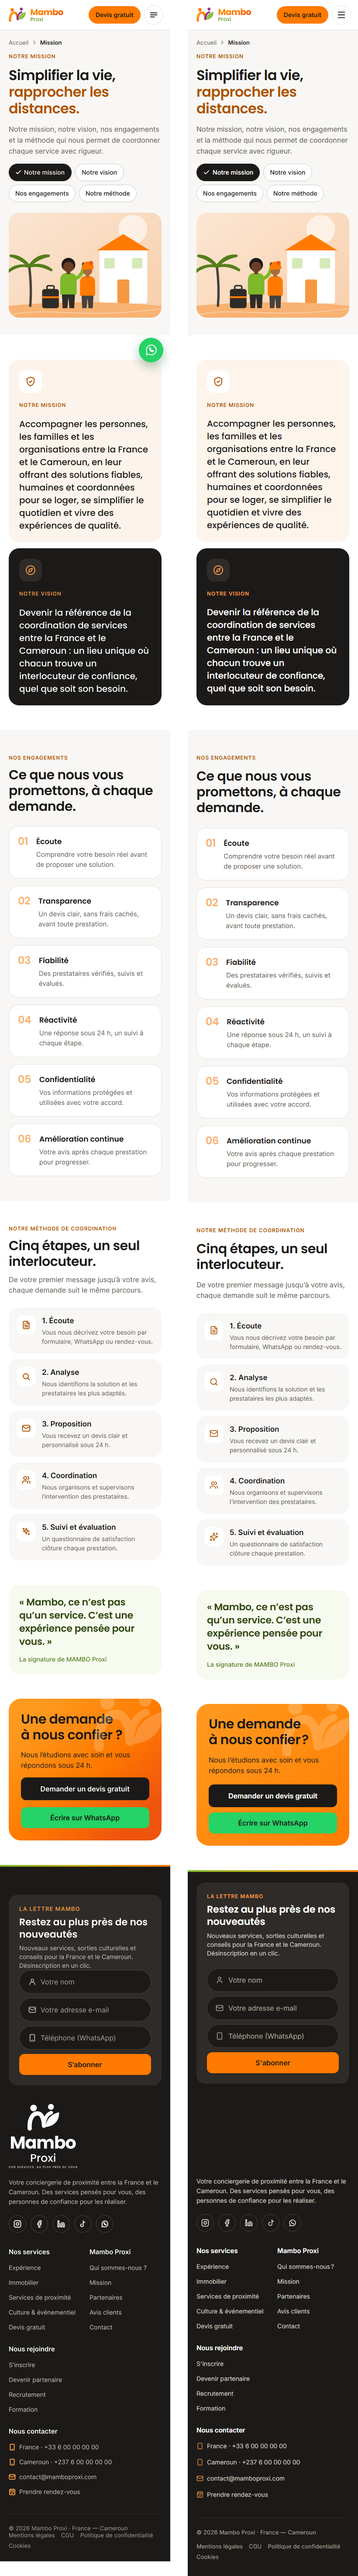
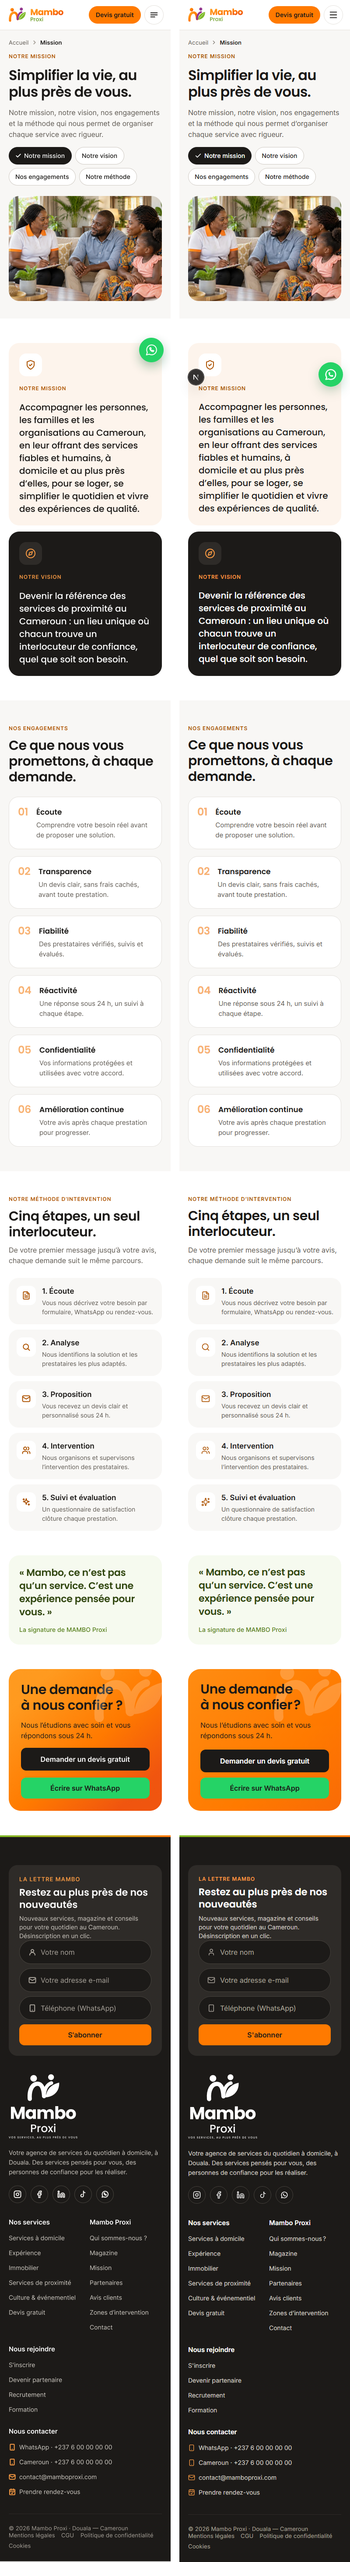
feat(pages): Mission d'après les nouvelles maquettes, mission et vision au Cameroun, méthode d'intervention, photos du héros et de Douala, version anglaise

diff --git a/src/mocks/data/pages.ts b/src/mocks/data/pages.ts
@@ -364,9 +364,9 @@ const mission: Page = {
   updatedAt: UPDATED_AT,
   isPreview: false,
   seo: {
-    title: 'Notre mission : simplifier la vie, rapprocher les distances',
+    title: 'Notre mission : simplifier la vie, au plus près de vous',
     description:
-      'Notre mission, notre vision, nos engagements et la méthode qui nous permet de coordonner chaque service entre la France et le Cameroun.',
+      'Notre mission, notre vision, nos engagements et la méthode qui nous permet d’organiser chaque service à domicile, à Douala.',
     ogImageUrl: null,
     noindex: false,
   },
@@ -377,9 +377,15 @@ const mission: Page = {
       enabled: true,
       variant: 'page',
       eyebrow: 'Notre mission',
-      title: 'Simplifier la vie, ==rapprocher les distances.==',
-      lead: 'Notre mission, notre vision, nos engagements et la méthode qui nous permet de coordonner chaque service avec rigueur.',
-      visual: visual('accueil'),
+      title: 'Simplifier la vie, au plus près de vous.',
+      lead: 'Notre mission, notre vision, nos engagements et la méthode qui nous permet d’organiser chaque service avec rigueur.',
+      visual: photo(
+        'accueil',
+        'mission-hero',
+        1280,
+        960,
+        'Une conseillère Mambo Proxi prend des notes auprès d’une famille, dans son salon.',
+      ),
       showWhatsapp: false,
       anchors: [
         { label: 'Notre mission', href: '#mission', external: false },
@@ -400,13 +406,13 @@ const mission: Page = {
           icon: 'ShieldCheck',
           title: 'Notre mission',
           tone: 'orange',
-          text: 'Accompagner les personnes, les familles et les organisations entre la France et le Cameroun, en leur offrant des solutions fiables, humaines et coordonnées pour se loger, se simplifier le quotidien et vivre des expériences de qualité.',
+          text: 'Accompagner les personnes, les familles et les organisations au Cameroun, en leur offrant des services fiables et humains, à domicile et au plus près d’elles, pour se loger, se simplifier le quotidien et vivre des expériences de qualité.',
         },
         {
           icon: 'Compass',
           title: 'Notre vision',
           tone: 'dark',
-          text: 'Devenir la référence de la coordination de services entre la France et le Cameroun : un lieu unique où chacun trouve un interlocuteur de confiance, quel que soit son besoin.',
+          text: 'Devenir la référence des services de proximité au Cameroun : un lieu unique où chacun trouve un interlocuteur de confiance, quel que soit son besoin.',
         },
       ],
     },
@@ -452,7 +458,7 @@ const mission: Page = {
       anchor: 'methode',
       tone: 'light',
       layout: 'rail',
-      eyebrow: 'Notre méthode de coordination',
+      eyebrow: 'Notre méthode d’intervention',
       title: 'Cinq étapes, un seul interlocuteur.',
       lead: 'De votre premier message jusqu’à votre avis, chaque demande suit le même parcours.',
       items: [
@@ -473,7 +479,7 @@ const mission: Page = {
         },
         {
           icon: 'Users',
-          title: 'Coordination',
+          title: 'Intervention',
           text: 'Nous organisons et supervisons l’intervention des prestataires.',
         },
         {
@@ -490,7 +496,13 @@ const mission: Page = {
       tone: 'green',
       text: 'Mambo, ce n’est pas qu’un service. C’est une expérience pensée pour vous.',
       author: 'La signature de MAMBO Proxi',
-      visual: visual('culture'),
+      visual: photo(
+        'culture',
+        'douala-ville',
+        1536,
+        1024,
+        'Douala au coucher du soleil, le pont sur le Wouri.',
+      ),
     },
     {
       id: 'cta',
@@ -499,6 +511,160 @@ const mission: Page = {
       title: 'Une demande\nà nous confier ?',
       text: 'Nous l’étudions avec soin et vous répondons sous 24 h.',
       primaryCta: { label: 'Demander un devis gratuit', href: '/devis', external: false },
+      showWhatsapp: true,
+    },
+  ],
+};
+
+/** Mission en anglais (`?lang=en`) : textes rédigés pour le site. */
+const missionEn: Page = {
+  ...mission,
+  seo: {
+    title: 'Our mission: making life simpler, close to you',
+    description:
+      'Our mission, our vision, our commitments and the method we use to organise every home service in Douala.',
+    ogImageUrl: null,
+    noindex: false,
+  },
+  sections: [
+    {
+      id: 'hero',
+      type: 'hero',
+      enabled: true,
+      variant: 'page',
+      eyebrow: 'Our mission',
+      title: 'Making life simpler, close to you.',
+      lead: 'Our mission, our vision, our commitments and the method we use to organise every service with care.',
+      visual: photo(
+        'accueil',
+        'mission-hero',
+        1280,
+        960,
+        'A Mambo Proxi adviser takes notes with a family in their living room.',
+      ),
+      showWhatsapp: false,
+      anchors: [
+        { label: 'Our mission', href: '#mission', external: false },
+        { label: 'Our vision', href: '#vision', external: false },
+        { label: 'Our commitments', href: '#engagements', external: false },
+        { label: 'Our method', href: '#methode', external: false },
+      ],
+    },
+    {
+      id: 'mission-vision',
+      type: 'cardGrid',
+      enabled: true,
+      tone: 'light',
+      layout: 'compact',
+      columns: 2,
+      items: [
+        {
+          icon: 'ShieldCheck',
+          title: 'Our mission',
+          tone: 'orange',
+          text: 'To support people, families and organisations in Cameroon with reliable, caring services, at home and close to them, to find a place to live, simplify everyday life and enjoy quality experiences.',
+        },
+        {
+          icon: 'Compass',
+          title: 'Our vision',
+          tone: 'dark',
+          text: 'To become the benchmark for local services in Cameroon: one place where everyone finds someone they can trust, whatever they need.',
+        },
+      ],
+    },
+    {
+      id: 'engagements',
+      type: 'cardGrid',
+      enabled: true,
+      anchor: 'engagements',
+      tone: 'muted',
+      layout: 'numbered',
+      columns: 2,
+      eyebrow: 'Our commitments',
+      title: 'What we promise you, with every request.',
+      items: [
+        {
+          number: '01',
+          title: 'Listening',
+          text: 'Understanding what you really need before suggesting a solution.',
+        },
+        {
+          number: '02',
+          title: 'Transparency',
+          text: 'A clear quote, with no hidden costs, before any service.',
+        },
+        {
+          number: '03',
+          title: 'Reliability',
+          text: 'Service providers who are vetted, monitored and rated.',
+        },
+        { number: '04', title: 'Responsiveness', text: 'A reply within 24 hours, follow-up at every step.' },
+        {
+          number: '05',
+          title: 'Confidentiality',
+          text: 'Your information protected and used only with your consent.',
+        },
+        {
+          number: '06',
+          title: 'Continuous improvement',
+          text: 'Your feedback after every service, so we keep getting better.',
+        },
+      ],
+    },
+    {
+      id: 'methode',
+      type: 'steps',
+      enabled: true,
+      anchor: 'methode',
+      tone: 'light',
+      layout: 'rail',
+      eyebrow: 'How we work',
+      title: 'Five steps, one point of contact.',
+      lead: 'From your first message to your feedback, every request follows the same path.',
+      items: [
+        {
+          icon: 'FileText',
+          title: 'Listening',
+          text: 'You describe what you need through the form, on WhatsApp or at an appointment.',
+        },
+        {
+          icon: 'Search',
+          title: 'Analysis',
+          text: 'We find the solution and the service providers best suited to it.',
+        },
+        {
+          icon: 'Mail',
+          title: 'Proposal',
+          text: 'You receive a clear, tailored quote within 24 hours.',
+        },
+        {
+          icon: 'Users',
+          title: 'Service',
+          text: 'We organise and supervise the service providers’ work.',
+        },
+        {
+          icon: 'Sparkles',
+          title: 'Follow-up and feedback',
+          text: 'A satisfaction survey closes every service.',
+        },
+      ],
+    },
+    {
+      id: 'citation',
+      type: 'quote',
+      enabled: true,
+      tone: 'green',
+      text: 'Mambo is more than a service. It’s an experience designed for you.',
+      author: 'The MAMBO Proxi signature',
+      visual: photo('culture', 'douala-ville', 1536, 1024, 'Douala at sunset, the bridge over the Wouri.'),
+    },
+    {
+      id: 'cta',
+      type: 'ctaBand',
+      enabled: true,
+      title: 'Something\nwe can help with?',
+      text: 'We look at it carefully and reply within 24 hours.',
+      primaryCta: { label: 'Request a free quote', href: '/devis', external: false },
       showWhatsapp: true,
     },
   ],
@@ -1264,6 +1430,7 @@ export const pages: Partial<Record<Page['key'], Page>> = {
 /** Pages traduites (`?lang=en`) ; une page non encore traduite est servie en français, comme le fait l'API. */
 export const pagesEn: Partial<Record<Page['key'], Page>> = {
   'qui-sommes-nous': quiSommesNousEn,
+  mission: missionEn,
   magazine: magazineEn,
   'zones-d-intervention': zonesEn,
 };
